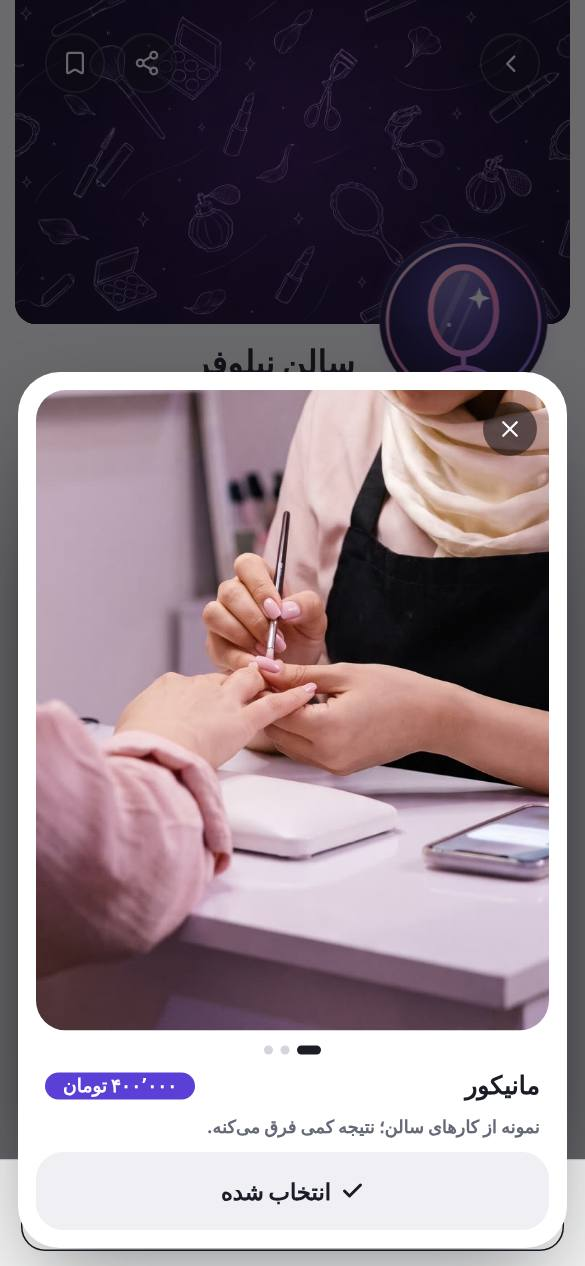
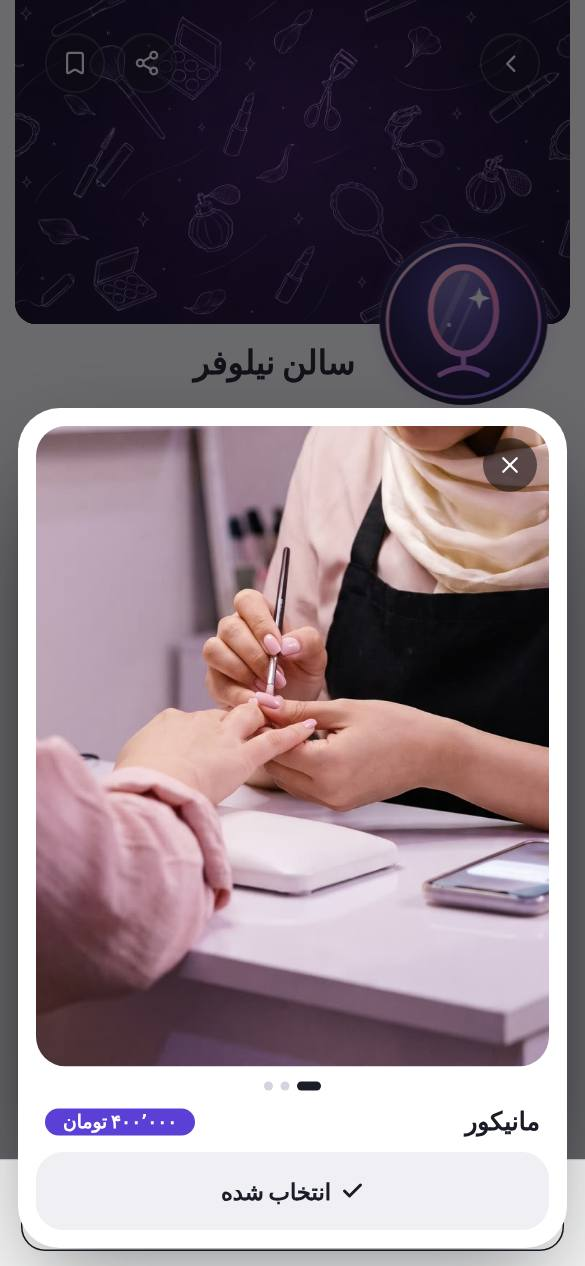
Samples viewer: drop the «result may differ» line
Claude-Session: https://claude.ai/code/session_01TkMqo8aaCRow4Bkpd1EqCr

Changed region(s): [[0.0308, 0.2773, 0.9846, 0.9242]]

diff --git a/app/components/ServicePhotoViewer.jsx b/app/components/ServicePhotoViewer.jsx
@@ -10,7 +10,7 @@ import { useBackHandler } from "../shared/hooks/useBackHandler";
  * next photo. «همین رو میخوام» picks the service (the same pick as tapping its row) and closes this; with
  * `browseOnly` (online booking paused) there is nothing to pick, so only «بستن» shows.
  */
-export function ServicePhotoViewer({ service, picked = false, browseOnly = false, owner = "سالن", onPick, onClose }) {
+export function ServicePhotoViewer({ service, picked = false, browseOnly = false, onPick, onClose }) {
   useBackHandler(Boolean(service), onClose);
   const photos = Array.isArray(service?.photos) ? service.photos : [];
   const [index, setIndex] = useState(0);
@@ -56,7 +56,6 @@ export function ServicePhotoViewer({ service, picked = false, browseOnly = false
           <h3>{service.name}</h3>
           {service.priceHidden ? null : <span className="spvPrice">{amount ? `${formatTomanNumber(amount)} تومان` : "قیمت توافقی"}</span>}
         </div>
-        <p className="spvNote">نمونه از کارهای {owner}؛ نتیجه کمی فرق میکنه.</p>
         {browseOnly ? null : (
           <button type="button" className={`spvPick${picked ? " is-picked" : ""}`} onClick={() => { onPick?.(); onClose(); }}>
             {picked ? <><Check size={16} strokeWidth={3} /> انتخاب شده</> : "همین رو میخوام"}

diff --git a/app/components/ServicesDropUp.jsx b/app/components/ServicesDropUp.jsx
@@ -39,7 +39,7 @@ function groupServices(services) {
  * «بستن», the dim backdrop, Back or Escape. `title` is its accessible name. With `browseOnly` (online booking
  * paused) the services are only shown: nothing to pick, no «رزرو».
  */
-export function ServicesDropUp({ open, title, services, focusNames = null, focusLabel = "", browseOnly = false, note = "", ownerLabel = "سالن", onConfirm, onClose }) {
+export function ServicesDropUp({ open, title, services, focusNames = null, focusLabel = "", browseOnly = false, note = "", onConfirm, onClose }) {
   useBackHandler(open, onClose);
   const list = Array.isArray(services) ? services : [];
   // Services the client came for (a category tapped on «سالن و آرتیست من») are listed first, in a group of their own.
@@ -196,7 +196,6 @@ export function ServicesDropUp({ open, title, services, focusNames = null, focus
         service={photoKey ? list.find((service) => serviceKey(service) === photoKey) : null}
         picked={photoKey ? pickedKeys.includes(photoKey) : false}
         browseOnly={browseOnly}
-        owner={ownerLabel}
         onPick={() => { if (photoKey) toggle(photoKey); }}
         onClose={() => setPhotoKey(null)}
       />

diff --git a/app/styles/features/servicePhotos.css b/app/styles/features/servicePhotos.css
@@ -68,6 +68,5 @@
 .spvInfo { display: flex; align-items: center; justify-content: space-between; gap: 8px; padding: 0 6px; }
 .spvInfo h3 { margin: 0; font-size: 1.05rem; font-weight: 900; }
 .spvPrice { padding: 1px 12px; border-radius: 999px; background: var(--fill-strong); color: var(--n-0); font-size: 0.78rem; font-weight: 900; }
-.spvNote { margin: 0; padding: 0 6px; color: var(--n-600); font-size: 0.74rem; font-weight: 700; }
 .spvPick { min-height: 52px; display: flex; align-items: center; justify-content: center; gap: 6px; border: 0; border-radius: 18px; background: var(--live-fill); color: var(--on-live-fill); font: inherit; font-size: 0.95rem; font-weight: 900; cursor: pointer; }
 .spvPick.is-picked { background: var(--n-100); color: var(--n-900); }

diff --git a/app/features/salons/SalonClientPage.jsx b/app/features/salons/SalonClientPage.jsx
@@ -263,7 +263,6 @@ export function SalonClientPage({
           {visitorBar || (
           <>
           <ServicesDropUp
-            ownerLabel="سالن"
             key={bookWith ? `with-${bookWith.member.staffId}` : "all"}
             open={servicesOpen}
             title={bookWith ? `کارهای ${bookWith.member.name}` : `خدمات ${publicName}`}

diff --git a/app/features/artist/PublicArtistModal.jsx b/app/features/artist/PublicArtistModal.jsx
@@ -188,7 +188,6 @@ export function PublicArtistModal({
             {visitorBar || (
             <>
             <ServicesDropUp
-            ownerLabel="آرتیست"
               open={servicesOpen}
               title={`خدمات ${artist.name || "آرتیست"}`}
               services={services}
